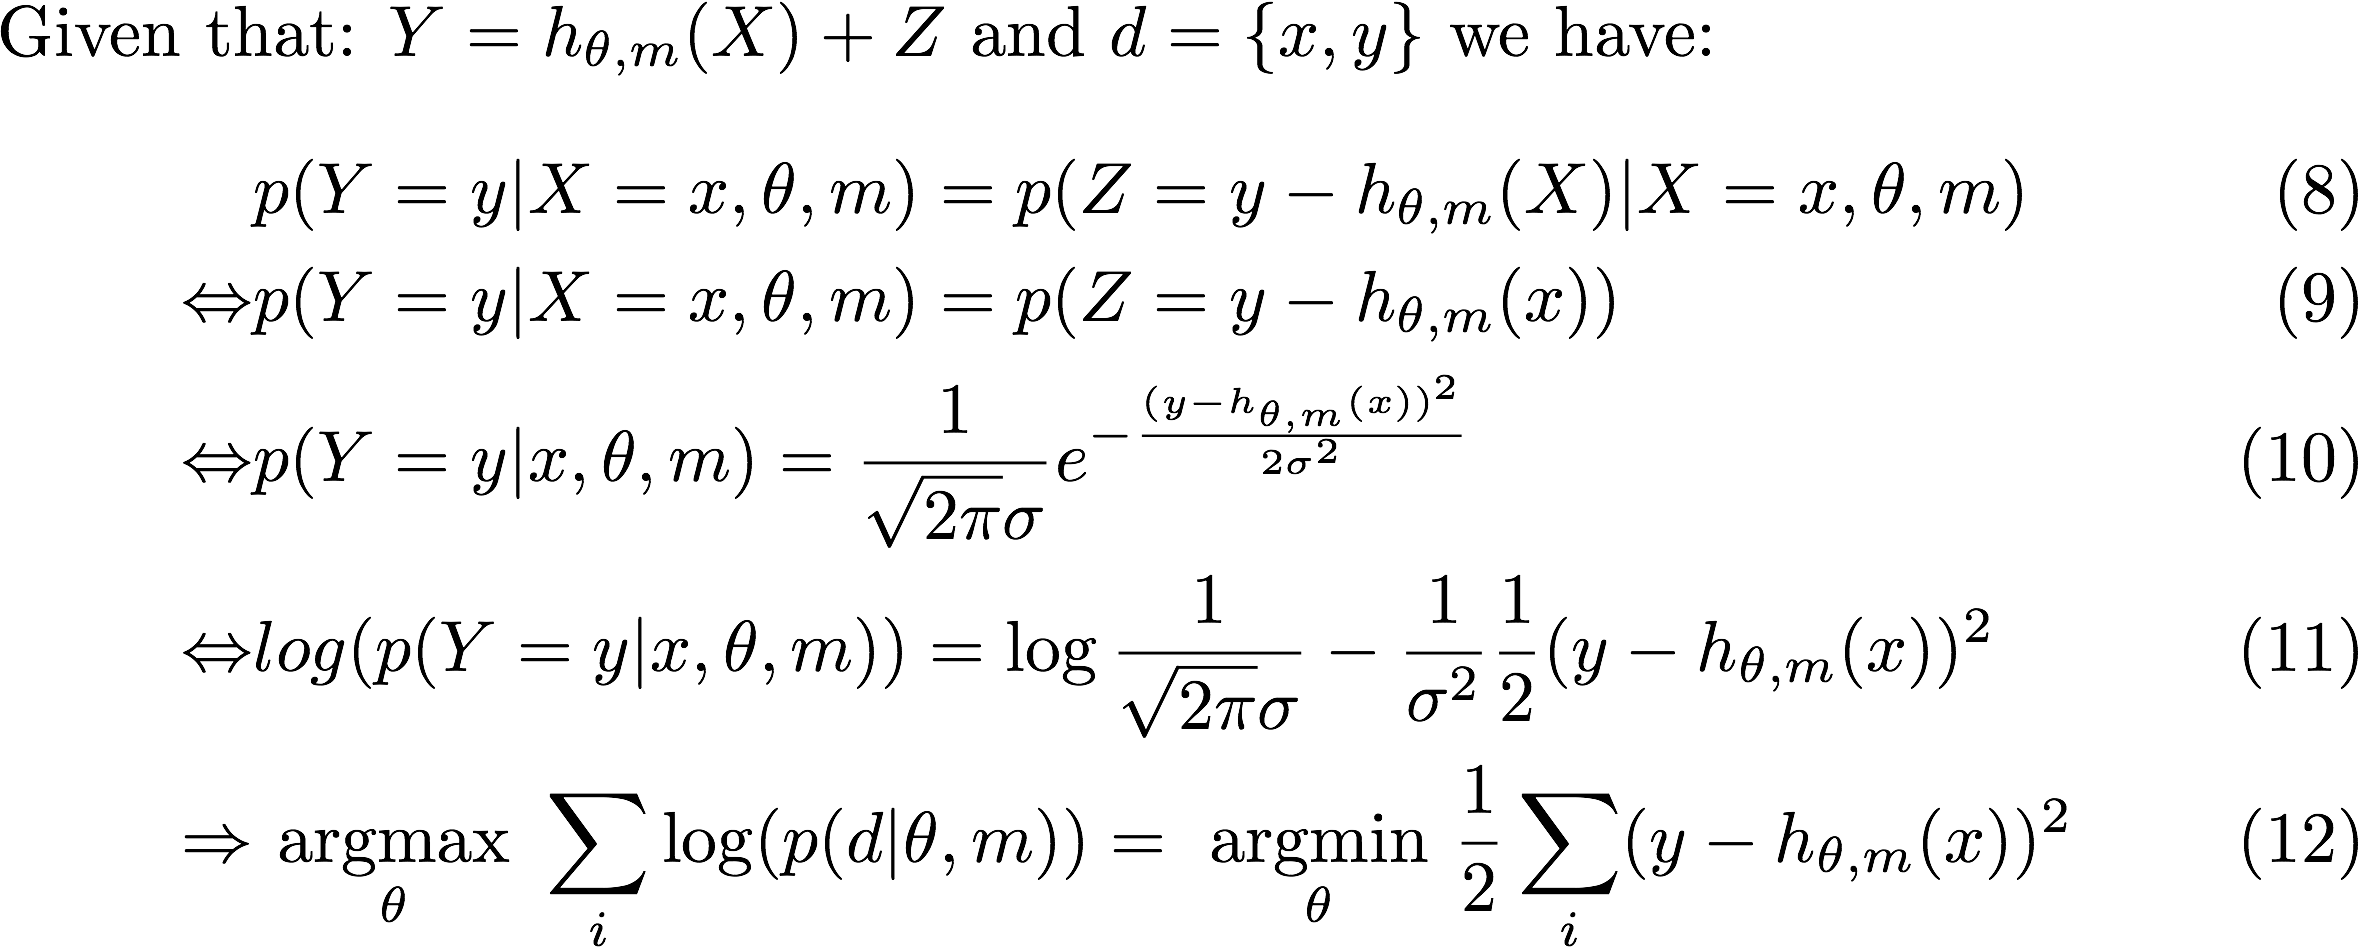
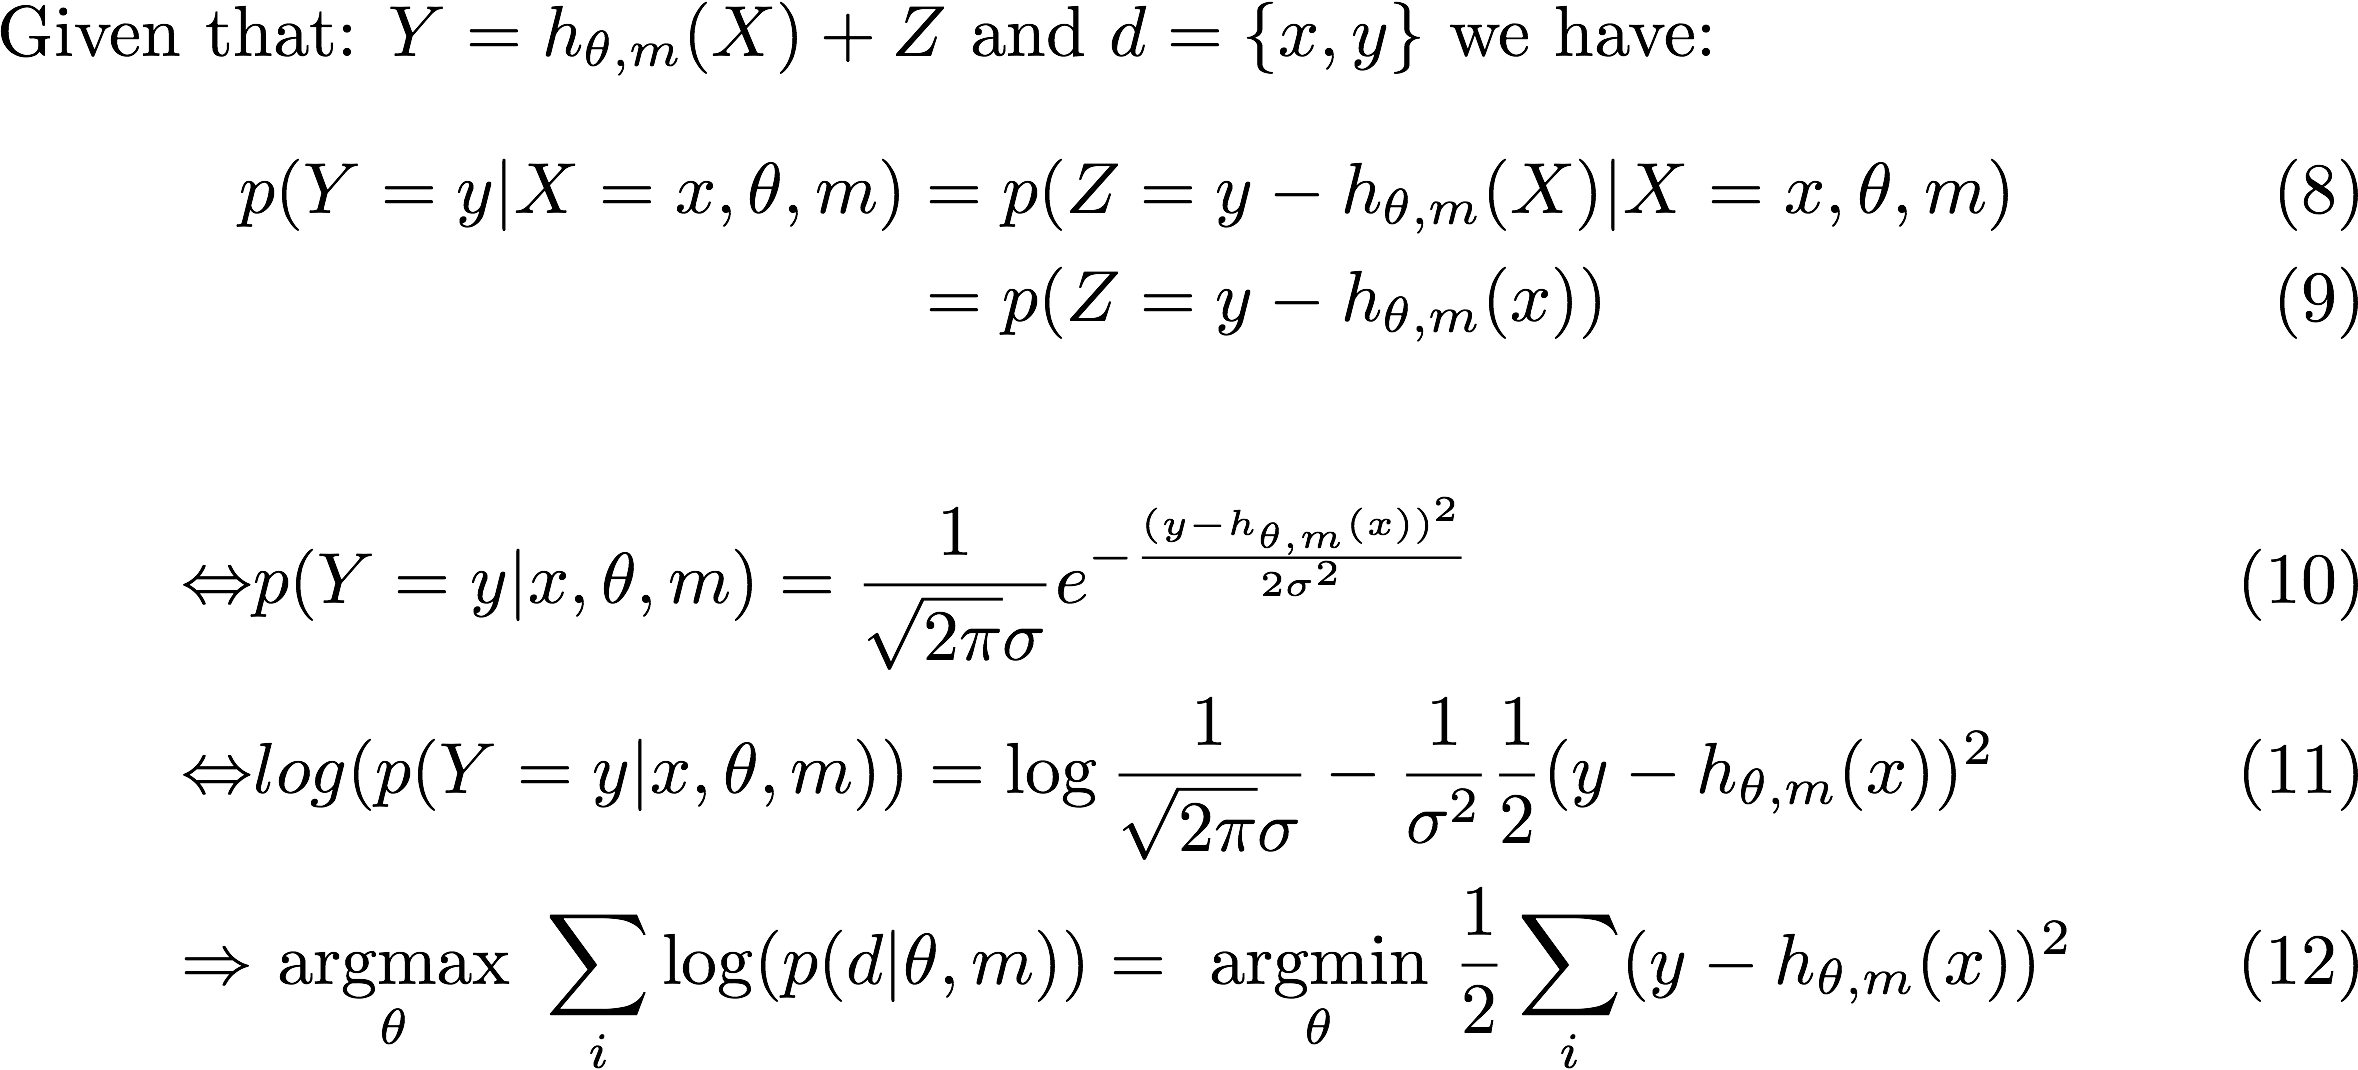
Add notes_lse folder

diff --git a/notes_lse/README.md b/notes_lse/README.md
@@ -57,8 +57,10 @@ p(d^{(i)} | \theta, m) &= p(x^{(i)}, y^{(i)} | \theta, m) \tag{2} \\
 ```
 Given that: $ Y = h_{\theta, m}(X) + Z $ and $ d = \{x, y\} $ we have:
 \begin{align}
-&p(Y=y | X=x, \theta, m) = p(Z= y - h_{\theta, m}(X) | X=x, \theta, m) \tag{8} \\
-\Leftrightarrow &p(Y=y | X=x, \theta, m) = p(Z= y - h_{\theta, m}(x)) \tag{9} \\
+p(Y=y | X=x, \theta, m) &= p(Z= y - h_{\theta, m}(X) | X=x, \theta, m) \tag{8} \\
+ &= p(Z= y - h_{\theta, m}(x)) \tag{9}
+\end{align}
+\begin{align}
 \Leftrightarrow &p(Y=y | x, \theta, m) =  \frac{1}{\sqrt{2\pi}\sigma} e^{- \frac{(y - h_{\theta, m}(x))^2}{2\sigma^2}} \tag{10} \\
 \Leftrightarrow &log(p(Y=y | x, \theta, m)) =  \log\frac{1}{\sqrt{2\pi}\sigma} - \frac{1}{\sigma^2} \frac{1}{2} (y - h_{\theta, m}(x))^2 \tag{11} \\
 \Rightarrow &\underset{\theta}{\text{ argmax }} \sum_i \log(p(d | \theta, m)) = \underset{\theta}{\text{ argmin }} \frac{1}{2}\sum_i(y - h_{\theta, m}(x))^2 \tag{12}
